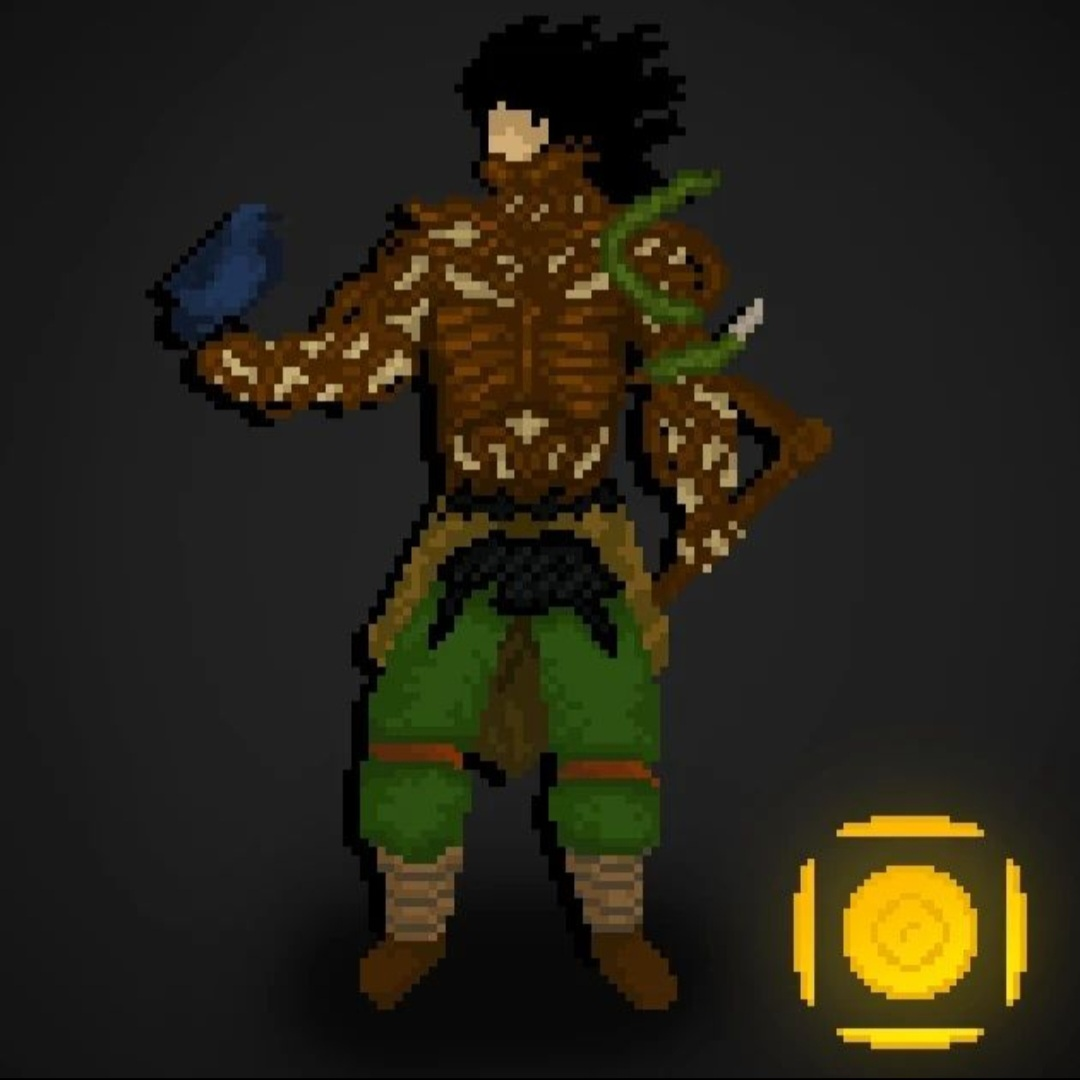
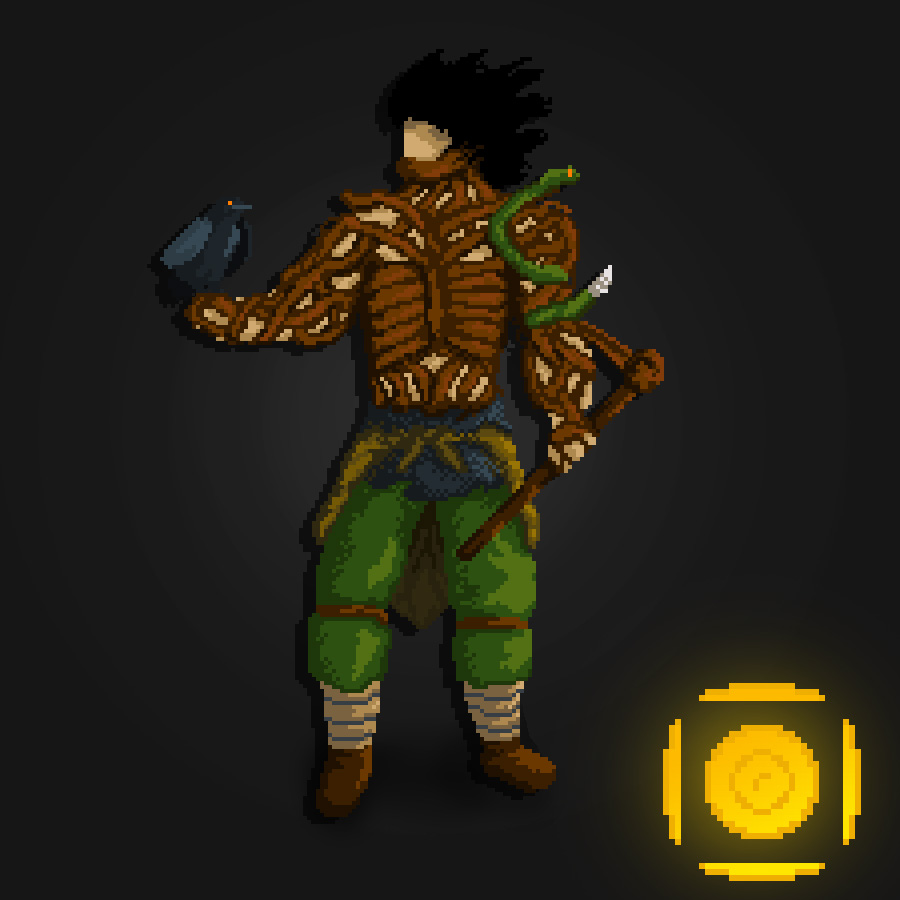
Update

Changed region(s): [[0.1556, 0.0933, 0.7778, 0.9333], [0.7156, 0.7778, 0.9644, 1.0], [0.7778, 0.7467, 0.9333, 0.8089]]

diff --git a/Art.html b/Art.html
@@ -68,7 +68,8 @@
             <li><img src="Images/Art/Artwork/Library.jpg" alt="Library" onclick="window.open(this.src, '_blank');"></li>
             <li><img src="Images/Art/Artwork/RDR2_Fanart.jpg" alt="RDR2_Fanart" onclick="window.open(this.src, '_blank');"></li>
             <li><img src="Images/Art/Artwork/WraithSword.jpg" alt="WraithSwordsman" onclick="window.open(this.src, '_blank');"></li>
-            <li><img src="Images/Art/Artwork/Veles.jpg" alt="Veles" onclick="window.open(this.src, '_blank');"></li>
+            <li><img src="Images/Art/Artwork/Veles_Old.jpg" alt="Veles-Old" onclick="window.open(this.src, '_blank');"></li>
+            <li><img src="Images/Art/Artwork/Veles.png" alt="Veles" onclick="window.open(this.src, '_blank');"></li>
             <li><img src="Images/Art/Artwork/Svend.jpg" alt="Svend" onclick="window.open(this.src, '_blank');"></li>
             <li><img src="Images/Art/Artwork/Jojo_Artstyle.jpg" alt="Jojo_Artstyle" onclick="window.open(this.src, '_blank');"></li>
             <li><img src="Images/Art/Artwork/DMC_Fanart.jpg" alt="DMC_Fanart" onclick="window.open(this.src, '_blank');"></li>
